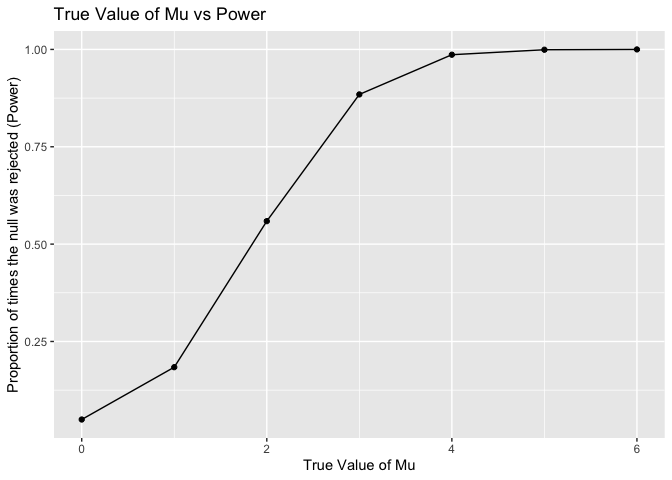
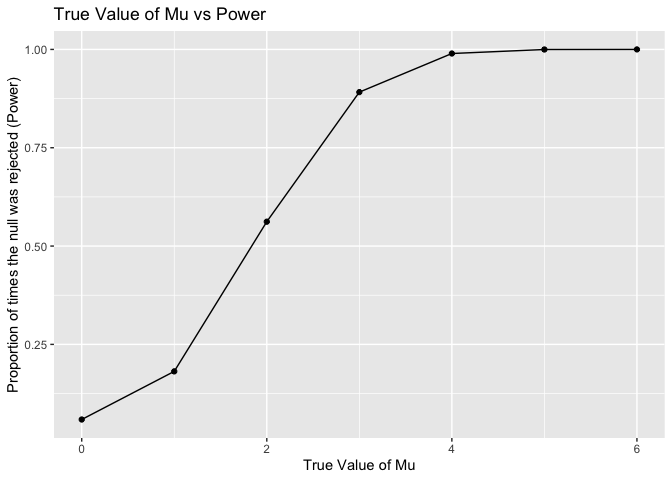
Q3 completion

diff --git a/p8105_hw5_hca2124.md b/p8105_hw5_hca2124.md
@@ -26,7 +26,7 @@ bdays = sample(1:365, 25, replace = TRUE)
 length(unique(bdays)) < 25
 ```
 
-    ## [1] FALSE
+    ## [1] TRUE
 
 ``` r
 bday = function(n) {
@@ -346,3 +346,36 @@ increases, the proportion of times the null is rejected (power)
 increases. The curve then levels and plateaus at a true mu value of 4,
 with a power of 1, meaning the test almost always rejects the null after
 this point.
+
+``` r
+average_df = 
+  model_df |>
+  group_by(mu) |>
+  summarise(avg_estimate = mean(estimate)) |>
+  mutate(samples = "All samples")
+
+average_rejected_df =
+  model_df |>
+  filter(reject) |>
+  group_by(mu) |>
+  summarise(avg_estimate = mean(estimate)) |>
+    mutate(samples = "Rejected null")
+
+bind_rows(average_df, average_rejected_df) |>
+  ggplot(aes(x = mu, y = avg_estimate, color = samples)) +
+  geom_point() +
+  geom_line() +
+  labs(
+    title = "True Value of Mu x Average Estimate of Mu, for All Samples vs. Samples For Which the Null Was Rejected",
+    x = "True value of mu",
+    y = "Average estimate of mu",
+    color = "samples"
+  )
+```
+
+![](p8105_hw5_hca2124_files/figure-gfm/unnamed-chunk-12-1.png)<!-- -->
+For mu= 1 and mu =2, the sample average of mu across tests for which the
+null is rejected is larger than that of the true value of mu. As mu
+increases, the sample average of mu across tests for which the null is
+rejected approximately equals to the true value of mu. This is seen at
+mu values of 4 and above.
